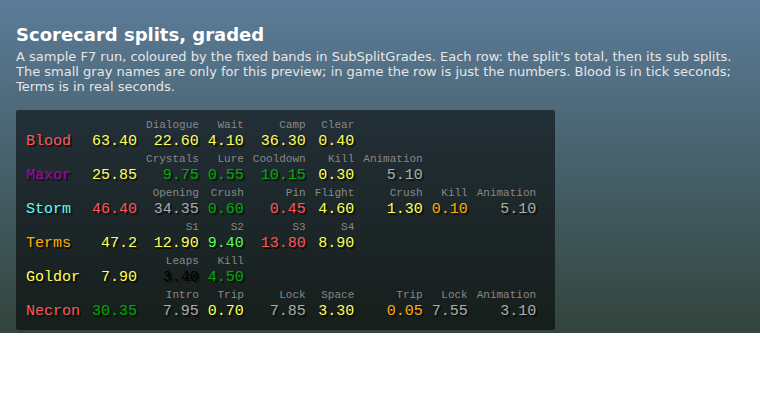
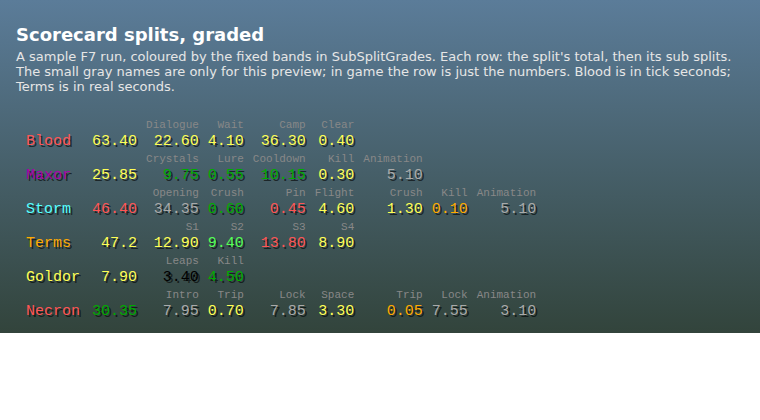
Scorecard preview: transparent background, as in game

diff --git a/previews/scorecard-preview.html b/previews/scorecard-preview.html
@@ -1,6 +1,6 @@
 <!doctype html><html><head><meta charset="utf-8"><title>Scorecard Preview</title>
 <style>
-:root{--bg:#1e2a1e;--panel:rgba(0,0,0,.55);--fg:#ddd}
+:root{--bg:#1e2a1e;--panel:transparent;--fg:#ddd}
 body{margin:0;min-height:100vh;box-sizing:border-box;padding:24px 16px;background:linear-gradient(#5b7c99,#2b3a2b);font-family:"Minecraft","Courier New",monospace;color:var(--fg)}
 h1{font:600 18px system-ui,sans-serif;color:#fff;margin:0 0 4px}
 p.note{font:13px system-ui,sans-serif;color:#e6e6e6;margin:0 0 16px;max-width:760px}
